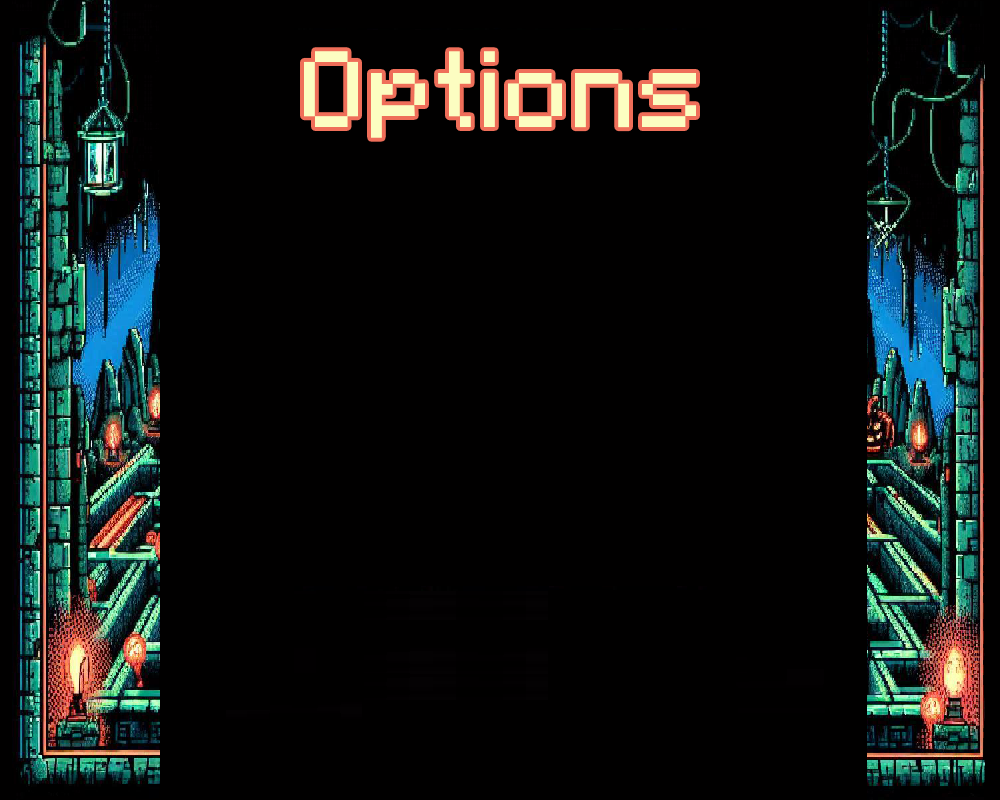
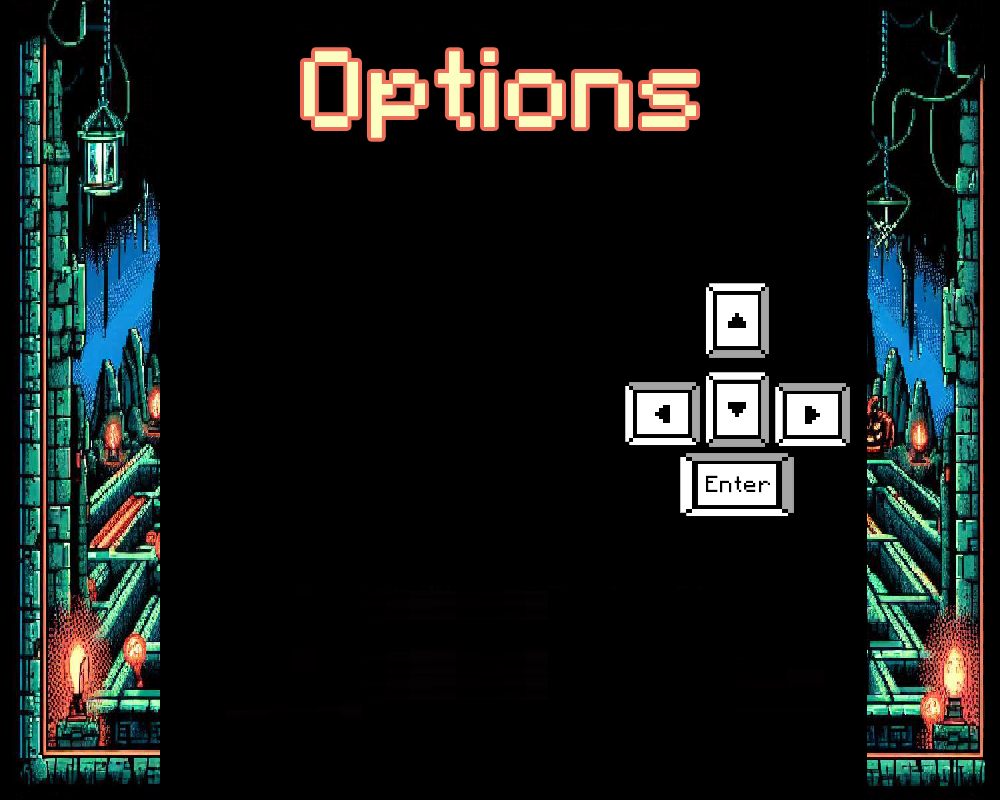
Main menus/pause completed

Changed region(s): [[0.62, 0.3438, 0.868, 0.6562]]

diff --git a/src/amazed.py b/src/amazed.py
@@ -56,6 +56,9 @@ hover2_sound = pygame.mixer.Sound(os.path.join('assets', 'hover2.wav'))
 select_sound = pygame.mixer.Sound(os.path.join('assets', 'select.wav'))
 select2_sound = pygame.mixer.Sound(os.path.join('assets', 'select2.wav'))
 pygame.mixer.music.load(os.path.join('assets', 'music1.wav'))
+back_sound = pygame.mixer.Sound(os.path.join('assets', 'back.wav'))
+all_sounds.append(back_sound)
+back_sound.set_volume(VOLUME)
 
 
 # Add all sounds to the global list
@@ -413,10 +416,11 @@ def options_menu():
     all_sounds.extend([hover_sound_options, select_sound, select2_sound])
     for sound in [hover_sound_options, select_sound, select2_sound]:
         sound.set_volume(VOLUME)
-        
+
     text_color = (255, 255, 255)
     highlight_color = (90, 216, 168)
     update_volume()
+
     while running:
         screen.blit(background_image, (0, 0))
 
@@ -426,12 +430,13 @@ def options_menu():
             else:
                 text = f"Move {option.capitalize()}: {pygame.key.name(controls[option])}"
 
+            y_position = HEIGHT // 2 - 100 + i * 50  # Adjust this value to move options higher or lower
             if selected_option == i:
                 if awaiting_keypress and option != 'volume':
                     text = f"Move {option.capitalize()}: Press a key..."
-                draw_text_options(text, 36, WIDTH // 2, HEIGHT // 2 + i * 50, text_color=highlight_color, outline_color=(0, 0, 0))
+                draw_text_options(text, 36, WIDTH // 2, y_position, text_color=highlight_color, outline_color=(0, 0, 0))
             else:
-                draw_text_options(text, 36, WIDTH // 2, HEIGHT // 2 + i * 50, text_color=text_color, outline_color=(0, 0, 0))
+                draw_text_options(text, 36, WIDTH // 2, y_position, text_color=text_color, outline_color=(0, 0, 0))
 
         draw_text_options("Press ESC to go back", 24, WIDTH // 2, HEIGHT - 100, text_color=text_color, outline_color=(0, 0, 0))
 
@@ -440,6 +445,7 @@ def options_menu():
         for event in pygame.event.get():
             if event.type == pygame.KEYDOWN:
                 if event.key == pygame.K_ESCAPE:
+                    back_sound.play()  # Play back sound
                     running = False
                 elif awaiting_keypress and selected_option != 4:
                     controls[options[selected_option]] = event.key
@@ -473,6 +479,8 @@ def options_menu():
     return "resume"
 
 
+
+
 def update_volume():
     global all_sounds
     pygame.mixer.music.set_volume(VOLUME)
@@ -480,30 +488,43 @@ def update_volume():
         sound.set_volume(VOLUME)
 
 def pause_menu():
-    global controls
-    
+    global controls, VOLUME, all_sounds
+
     running = True
     selected_option = 0  # Track the currently selected option (0 for resume)
-    
+
+    # Load sounds
+    hover_sound_pause = pygame.mixer.Sound(os.path.join('assets', 'hover2.wav'))
+    select_sound_pause = pygame.mixer.Sound(os.path.join('assets', 'select.wav'))
+
+    all_sounds.extend([hover_sound_pause, select_sound_pause])
+    for sound in [hover_sound_pause, select_sound_pause]:
+        sound.set_volume(VOLUME)
+
+    previous_selected_option = None  # To track the previously selected option
+
     while running:
         screen.fill((0, 0, 0, 180))  # Semi-transparent black overlay
-        
+
         draw_text_options("Paused", 60, WIDTH // 2, HEIGHT // 4, text_color=(90, 216, 168), outline_color=(0, 0, 0))
-        
+
         options = ["Resume", "Options", "Main Menu"]
         for i, option in enumerate(options):
             if selected_option == i:
                 draw_text_options(option, 36, WIDTH // 2, HEIGHT // 2 + i * 50, text_color=(90, 216, 168), outline_color=(0, 0, 0))
             else:
                 draw_text_options(option, 36, WIDTH // 2, HEIGHT // 2 + i * 50, text_color=(200, 200, 200), outline_color=(0, 0, 0))
-        
+
         pygame.display.flip()
 
         for event in pygame.event.get():
             if event.type == pygame.KEYDOWN:
                 if event.key == pygame.K_ESCAPE:
+                    back_sound.play()  # Play back sound
+                    select_sound_pause.play()
                     return "resume"
                 elif event.key == pygame.K_RETURN:
+                    select_sound_pause.play()
                     if selected_option == 0:
                         return "resume"
                     elif selected_option == 1:
@@ -515,18 +536,26 @@ def pause_menu():
                     selected_option = (selected_option - 1) % len(options)
                 elif event.key == pygame.K_DOWN:
                     selected_option = (selected_option + 1) % len(options)
-            
+
             elif event.type == pygame.MOUSEBUTTONDOWN:
                 mouse_x, mouse_y = pygame.mouse.get_pos()
                 for i, option in enumerate(options):
                     if HEIGHT // 2 + i * 50 - 18 < mouse_y < HEIGHT // 2 + i * 50 + 18:
                         selected_option = i
-        
+                        select_sound_pause.play()
+
             elif event.type == pygame.QUIT:
                 pygame.quit()
                 return "quit"
-    
-    return "resume"  # Default return to resume if quit is triggered unexpectedly
+
+        # Play hover sound when the selection changes
+        if previous_selected_option is not None and previous_selected_option != selected_option:
+            hover_sound_pause.play()
+
+        previous_selected_option = selected_option
+
+    return "resume"
+
 
 
 def main():
